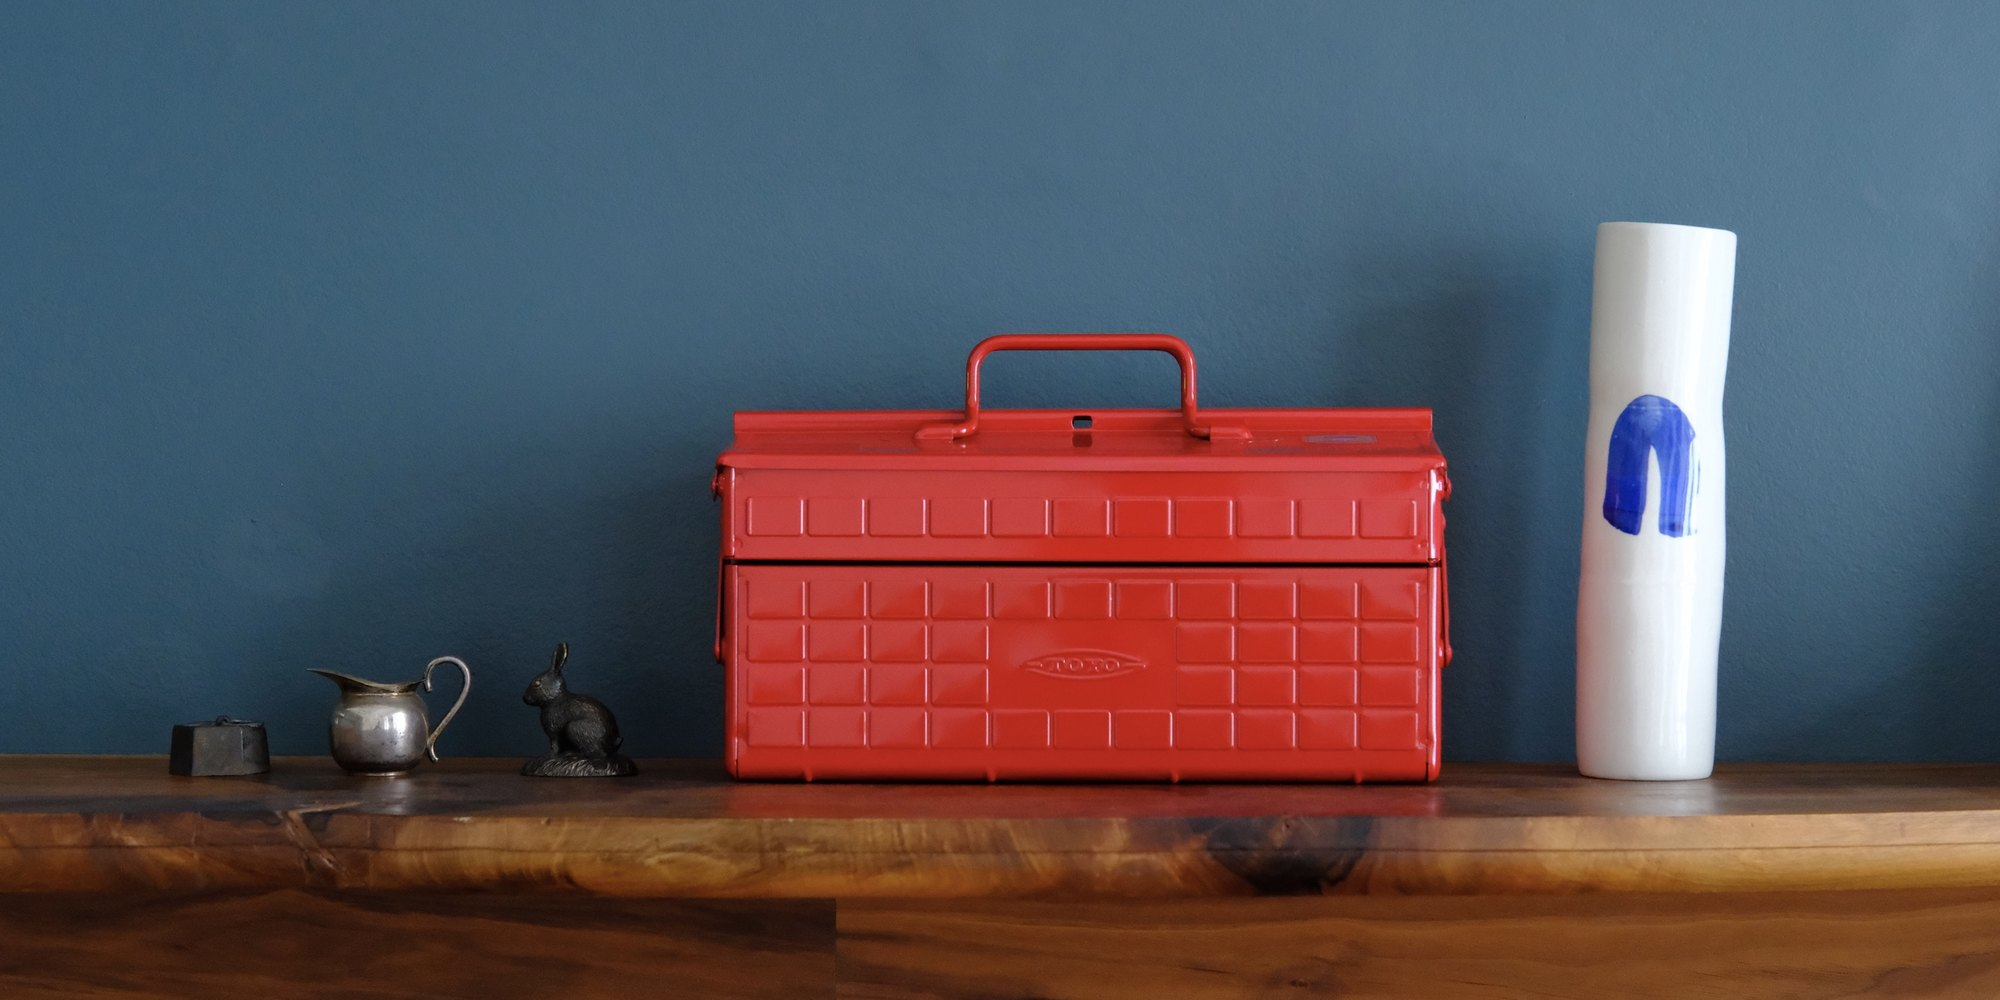
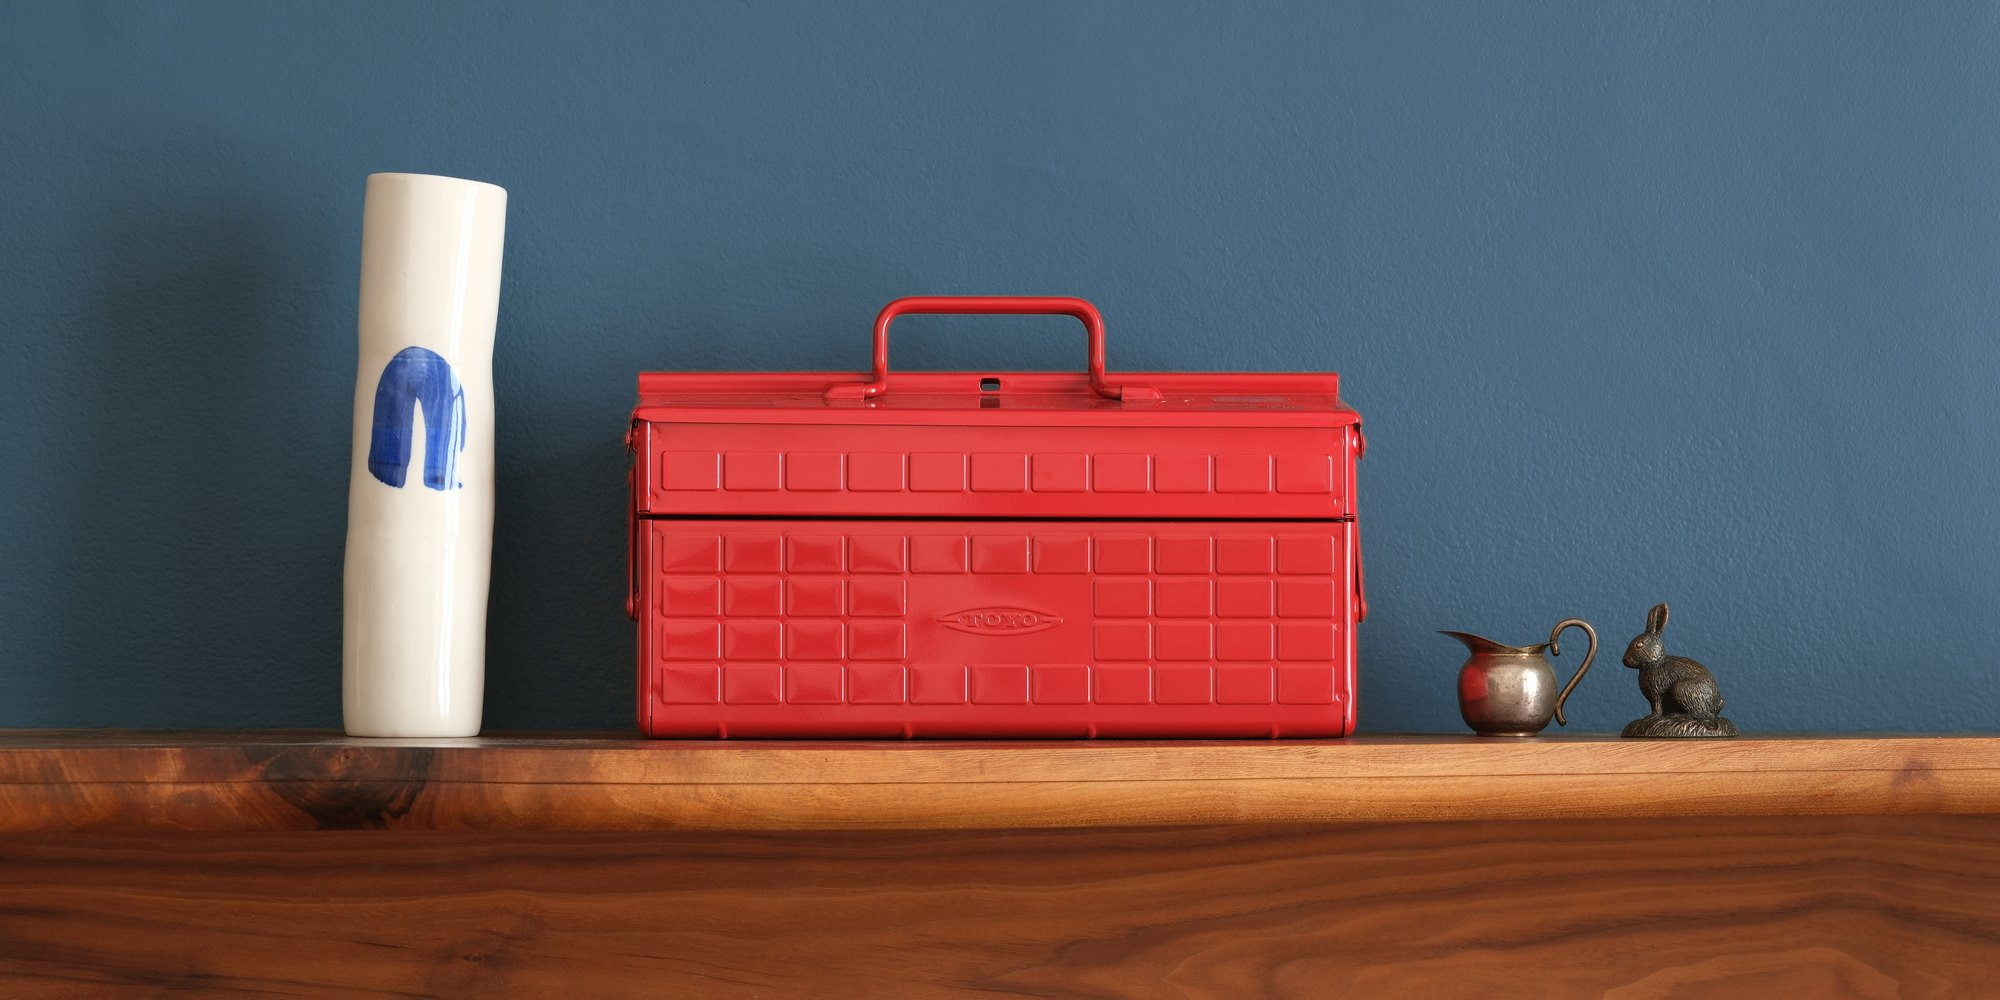
Replace Toolbox with the tripod reshoot

diff --git a/public/index.html b/public/index.html
@@ -132,7 +132,7 @@
   </figure>
 
   <figure>
-    <img src="images/toolbox.jpg" width="2000" height="1000" alt="A red metal toolbox on a wooden shelf against a blue wall, between a small silver jug, a bronze hare and a white vase with a blue brushstroke." loading="lazy">
+    <img src="images/toolbox.jpg" width="2000" height="1000" alt="A red metal toolbox centred on a walnut shelf against a blue wall, with a white vase with a blue brushstroke to its left and a small silver jug and a bronze hare to its right." loading="lazy">
     <figcaption>Toolbox</figcaption>
   </figure>
 
